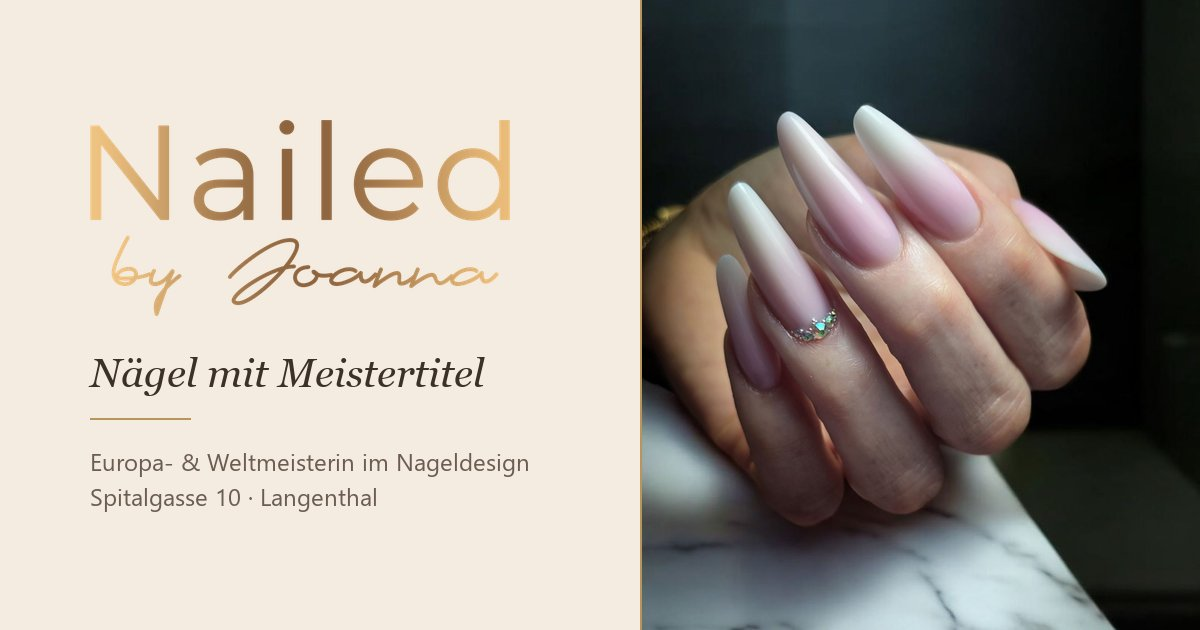
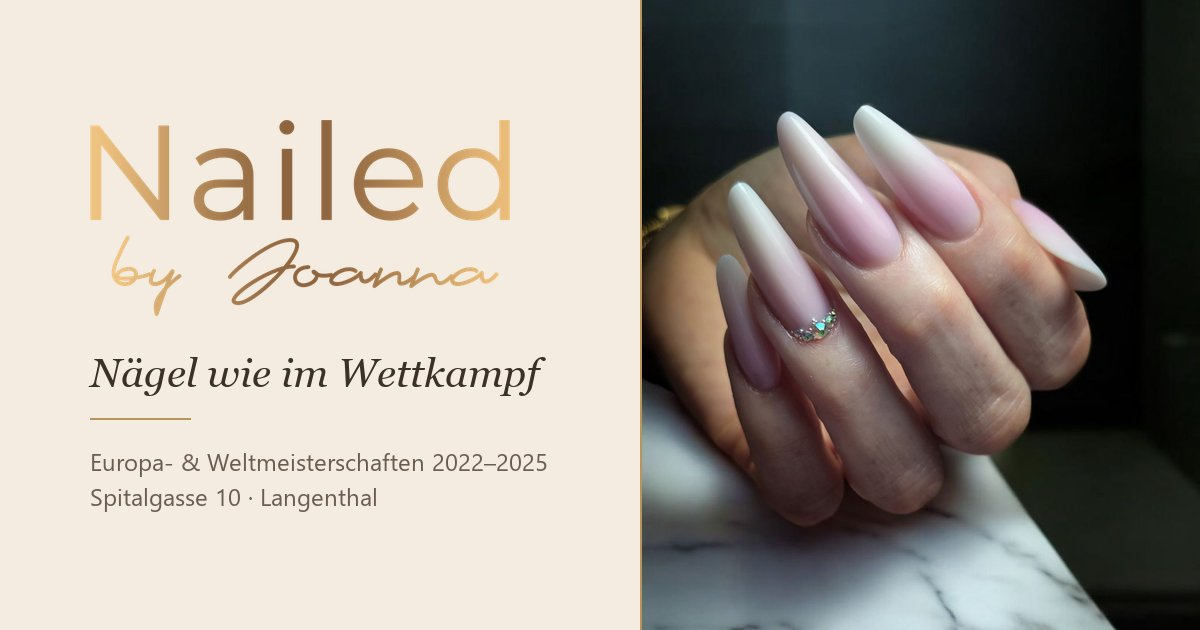
Titel neutral, Sprachwechsel in der Fusszeile

Changed region(s): [[0.185, 0.573, 0.4625, 0.6333], [0.2775, 0.7238, 0.4625, 0.754]]

diff --git a/en/index.html b/en/index.html
@@ -6,10 +6,10 @@
 <meta name="viewport" content="width=device-width, initial-scale=1">
 <meta name="robots" content="noindex, nofollow">
 <title>Nailed by Joanna Förster · Nail Studio Langenthal</title>
-<meta name="description" content="Nail studio in Langenthal, Switzerland, by Joanna Förster, European and World Champion in nail design. Gel extensions, Russian manicure, gel polish, hand-painted nail art and pedicure. Book on Treatwell.">
+<meta name="description" content="Nail studio in Langenthal, Switzerland, by Joanna Förster, who has competed at European and World Championships in nail design. Gel extensions, Russian manicure, gel polish, hand-painted nail art and pedicure. Book on Treatwell.">
 <meta name="theme-color" content="#f4ece1">
 <meta property="og:title" content="Nailed by Joanna Förster · Nail Studio Langenthal">
-<meta property="og:description" content="Championship-level nails: European and World Champion in nail design, Spitalgasse 10, Langenthal.">
+<meta property="og:description" content="Competition-level nails: European and World Championships in nail design, Spitalgasse 10, Langenthal.">
 <meta property="og:type" content="website">
 <meta property="og:locale" content="en_GB">
 <meta property="og:url" content="https://mauricestuder.github.io/nailedbyjoanna/en/">
@@ -166,9 +166,6 @@ p { margin: 0 0 1em; }
 }
 .nav-links a:not(.knopf):hover::after, .nav-links a[aria-current="true"]::after { transform: scaleX(1); transform-origin: left; }
 .nav .knopf { --h: 44px; padding: 0 22px; font-size: 12px; }
-.nav-links a.sprache { font-size: 12px; letter-spacing: .14em; padding: 10px 4px; color: var(--gold-text); }
-.menue-sprache { margin: 20px 0 0; font-size: 15px; }
-.menue-sprache a { color: var(--gold-text); }
 
 .burger {
   display: none; width: 48px; height: 48px; margin-right: -10px; border: 0; background: none; cursor: pointer;
@@ -595,7 +592,6 @@ p { margin: 0 0 1em; }
         <li><a href="#preise">Prices</a></li>
         <li><a href="#ueber">About</a></li>
         <li><a href="#kontakt">Contact</a></li>
-        <li><a class="sprache" href="../" hreflang="de" lang="de" aria-label="Deutsche Version">DE</a></li>
         <li><a class="knopf knopf-voll" href="https://www.treatwell.ch/ort/nailed-by-joanna-foerster/" target="_blank" rel="noopener">Book now</a></li>
       </ul>
     </nav>
@@ -612,7 +608,6 @@ p { margin: 0 0 1em; }
     <li><a href="#kontakt">Contact</a></li>
   </ul>
   <a class="knopf knopf-voll" href="https://www.treatwell.ch/ort/nailed-by-joanna-foerster/" target="_blank" rel="noopener">Book now</a>
-  <p class="menue-sprache"><a href="../" hreflang="de" lang="de">Deutsche Version</a></p>
   <p class="menue-kontakt"><a href="tel:+41766209822">076 620 98 22</a><br>Spitalgasse 10, 4900 Langenthal</p>
 </div>
 
@@ -624,13 +619,13 @@ p { margin: 0 0 1em; }
     <div>
       <p class="abzeichen auftakt" style="--i:0">
         <svg viewBox="0 0 24 24" fill="none" stroke="currentColor" stroke-width="1.2" aria-hidden="true"><path d="M7 4h10v4a5 5 0 0 1-10 0V4Z"/><path d="M7 6H4.5a2.5 2.5 0 0 0 2.6 3M17 6h2.5a2.5 2.5 0 0 1-2.6 3M12 13v4M8.5 20h7M9.5 17h5"/></svg>
-        European &amp; World Champion in nail design
+        European &amp; World Championships 2022–2025
       </p>
       <h1>
-        <span class="zeile"><span style="--i:1">Nails by a</span></span>
-        <span class="zeile"><span style="--i:2"><em>champion</em></span></span>
+        <span class="zeile"><span style="--i:1">Nails at</span></span>
+        <span class="zeile"><span style="--i:2"><em>contest level</em></span></span>
       </h1>
-      <p class="einleitung auftakt" style="--i:4">Gel extensions, Russian manicure and hand-painted nail art by Joanna Förster – with the precision of a competition winner and the calm of a small studio on Spitalgasse in Langenthal.</p>
+      <p class="einleitung auftakt" style="--i:4">Gel extensions, Russian manicure and hand-painted nail art by Joanna Förster – with the precision of international competitions and the calm of a small studio on Spitalgasse in Langenthal.</p>
       <div class="kopf-knoepfe auftakt" style="--i:5">
         <a class="knopf knopf-voll" href="https://www.treatwell.ch/ort/nailed-by-joanna-foerster/" target="_blank" rel="noopener">
           Book now
@@ -656,7 +651,7 @@ p { margin: 0 0 1em; }
       <div class="siegel auftakt" style="--i:7" aria-hidden="true">
         <svg viewBox="0 0 112 112">
           <defs><path id="kreis" d="M56 56m-42 0a42 42 0 1 1 84 0a42 42 0 1 1-84 0"/></defs>
-          <g class="kreis-text"><text class="ring"><textPath href="#kreis">World Champion · European Champion ·</textPath></text></g>
+          <g class="kreis-text"><text class="ring"><textPath href="#kreis">European &amp; World Championships ·</textPath></text></g>
           <circle cx="56" cy="56" r="28" fill="none" stroke="#b8955a" stroke-width=".8"/>
           <text x="56" y="64" text-anchor="middle" fill="#7a5c2c" style="font:italic 400 24px 'Playfair Display',Georgia,serif">J</text>
         </svg>
@@ -679,8 +674,8 @@ p { margin: 0 0 1em; }
   <div class="wrap">
     <div class="titel-kopf">
       <div>
-        <p class="oben rv">Awards</p>
-        <h2 class="titel rv" id="titel-h" style="--i:1">Won on the <em>international</em> stage</h2>
+        <p class="oben rv">Competitions</p>
+        <h2 class="titel rv" id="titel-h" style="--i:1">On the <em>international</em> stage</h2>
         <svg class="zier" viewBox="0 0 180 14" aria-hidden="true"><line x1="0" y1="7" x2="80" y2="7"/><rect class="raute" x="86" y="3" width="8" height="8"/><line x1="100" y1="7" x2="180" y2="7"/></svg>
       </div>
       <p class="einleitung rv" style="--i:2">From 2022 to 2025 Joanna competed at European and World Championships – not for the trophies, but to challenge herself. You can feel that precision at every appointment.</p>
@@ -1079,7 +1074,7 @@ p { margin: 0 0 1em; }
       </ul>
     </div>
     <div class="fuss-unten">
-      <p>Spitalgasse 10, 4900 Langenthal · <a href="../rechtliches.html" hreflang="de">Legal notice &amp; privacy (German)</a></p>
+      <p>Spitalgasse 10, 4900 Langenthal · <a href="../rechtliches.html" hreflang="de">Legal notice &amp; privacy (German)</a> · <a href="../" hreflang="de" lang="de">Deutsch</a></p>
       <p>© <span id="jahr">2026</span> Nailed by Joanna Förster</p>
     </div>
   </div>

diff --git a/index.html b/index.html
@@ -5,10 +5,10 @@
 <meta name="viewport" content="width=device-width, initial-scale=1">
 <meta name="robots" content="noindex, nofollow">
 <title>Nailed by Joanna Förster · Nagelstudio Langenthal</title>
-<meta name="description" content="Nagelstudio in Langenthal von Joanna Förster, Europa- und Weltmeisterin im Nageldesign. Modellage, Russische Maniküre, Gellack, handgemalte Nailart und Pediküre. Termine über Treatwell.">
+<meta name="description" content="Nagelstudio in Langenthal von Joanna Förster, Teilnehmerin an Europa- und Weltmeisterschaften im Nageldesign. Modellage, Russische Maniküre, Gellack, handgemalte Nailart und Pediküre. Termine über Treatwell.">
 <meta name="theme-color" content="#f4ece1">
 <meta property="og:title" content="Nailed by Joanna Förster · Nagelstudio Langenthal">
-<meta property="og:description" content="Nägel mit Meistertitel: Europa- und Weltmeisterin im Nageldesign, Spitalgasse 10, Langenthal.">
+<meta property="og:description" content="Nägel wie im Wettkampf: Europa- und Weltmeisterschaften im Nageldesign, Spitalgasse 10, Langenthal.">
 <meta property="og:type" content="website">
 <meta property="og:locale" content="de_CH">
 <meta property="og:url" content="https://mauricestuder.github.io/nailedbyjoanna/">
@@ -165,9 +165,6 @@ p { margin: 0 0 1em; }
 }
 .nav-links a:not(.knopf):hover::after, .nav-links a[aria-current="true"]::after { transform: scaleX(1); transform-origin: left; }
 .nav .knopf { --h: 44px; padding: 0 22px; font-size: 12px; }
-.nav-links a.sprache { font-size: 12px; letter-spacing: .14em; padding: 10px 4px; color: var(--gold-text); }
-.menue-sprache { margin: 20px 0 0; font-size: 15px; }
-.menue-sprache a { color: var(--gold-text); }
 
 .burger {
   display: none; width: 48px; height: 48px; margin-right: -10px; border: 0; background: none; cursor: pointer;
@@ -594,7 +591,6 @@ p { margin: 0 0 1em; }
         <li><a href="#preise">Preise</a></li>
         <li><a href="#ueber">Über mich</a></li>
         <li><a href="#kontakt">Kontakt</a></li>
-        <li><a class="sprache" href="en/" hreflang="en" lang="en" aria-label="English version">EN</a></li>
         <li><a class="knopf knopf-voll" href="https://www.treatwell.ch/ort/nailed-by-joanna-foerster/" target="_blank" rel="noopener">Termin buchen</a></li>
       </ul>
     </nav>
@@ -611,7 +607,6 @@ p { margin: 0 0 1em; }
     <li><a href="#kontakt">Kontakt</a></li>
   </ul>
   <a class="knopf knopf-voll" href="https://www.treatwell.ch/ort/nailed-by-joanna-foerster/" target="_blank" rel="noopener">Termin buchen</a>
-  <p class="menue-sprache"><a href="en/" hreflang="en" lang="en">English version</a></p>
   <p class="menue-kontakt"><a href="tel:+41766209822">076 620 98 22</a><br>Spitalgasse 10, 4900 Langenthal</p>
 </div>
 
@@ -623,13 +618,13 @@ p { margin: 0 0 1em; }
     <div>
       <p class="abzeichen auftakt" style="--i:0">
         <svg viewBox="0 0 24 24" fill="none" stroke="currentColor" stroke-width="1.2" aria-hidden="true"><path d="M7 4h10v4a5 5 0 0 1-10 0V4Z"/><path d="M7 6H4.5a2.5 2.5 0 0 0 2.6 3M17 6h2.5a2.5 2.5 0 0 1-2.6 3M12 13v4M8.5 20h7M9.5 17h5"/></svg>
-        Europa- &amp; Weltmeisterin im Nageldesign
+        Europa- &amp; Weltmeisterschaften 2022–2025
       </p>
       <h1>
-        <span class="zeile"><span style="--i:1">Nägel mit</span></span>
-        <span class="zeile"><span style="--i:2"><em>Meistertitel</em></span></span>
+        <span class="zeile"><span style="--i:1">Nägel wie</span></span>
+        <span class="zeile"><span style="--i:2"><em>im Wettkampf</em></span></span>
       </h1>
-      <p class="einleitung auftakt" style="--i:4">Modellage, Russische Maniküre und handgemalte Nailart von Joanna Förster – mit der Präzision einer Wettkampfsiegerin und der Ruhe eines kleinen Studios an der Spitalgasse in Langenthal.</p>
+      <p class="einleitung auftakt" style="--i:4">Modellage, Russische Maniküre und handgemalte Nailart von Joanna Förster – mit der Präzision aus internationalen Wettkämpfen und der Ruhe eines kleinen Studios an der Spitalgasse in Langenthal.</p>
       <div class="kopf-knoepfe auftakt" style="--i:5">
         <a class="knopf knopf-voll" href="https://www.treatwell.ch/ort/nailed-by-joanna-foerster/" target="_blank" rel="noopener">
           Termin buchen
@@ -655,7 +650,7 @@ p { margin: 0 0 1em; }
       <div class="siegel auftakt" style="--i:7" aria-hidden="true">
         <svg viewBox="0 0 112 112">
           <defs><path id="kreis" d="M56 56m-42 0a42 42 0 1 1 84 0a42 42 0 1 1-84 0"/></defs>
-          <g class="kreis-text"><text class="ring"><textPath href="#kreis">Weltmeisterin · Europameisterin ·</textPath></text></g>
+          <g class="kreis-text"><text class="ring"><textPath href="#kreis">Europa- &amp; Weltmeisterschaften ·</textPath></text></g>
           <circle cx="56" cy="56" r="28" fill="none" stroke="#b8955a" stroke-width=".8"/>
           <text x="56" y="64" text-anchor="middle" fill="#7a5c2c" style="font:italic 400 24px 'Playfair Display',Georgia,serif">J</text>
         </svg>
@@ -678,8 +673,8 @@ p { margin: 0 0 1em; }
   <div class="wrap">
     <div class="titel-kopf">
       <div>
-        <p class="oben rv">Ausgezeichnet</p>
-        <h2 class="titel rv" id="titel-h" style="--i:1">Gewonnen auf <em>internationaler</em> Bühne</h2>
+        <p class="oben rv">Wettkämpfe</p>
+        <h2 class="titel rv" id="titel-h" style="--i:1">Auf <em>internationaler</em> Bühne</h2>
         <svg class="zier" viewBox="0 0 180 14" aria-hidden="true"><line x1="0" y1="7" x2="80" y2="7"/><rect class="raute" x="86" y="3" width="8" height="8"/><line x1="100" y1="7" x2="180" y2="7"/></svg>
       </div>
       <p class="einleitung rv" style="--i:2">Von 2022 bis 2025 hat Joanna an Europa- und Weltmeisterschaften teilgenommen – nicht für die Pokale, sondern um sich selbst herauszufordern. Diese Genauigkeit spüren Sie bei jedem Termin.</p>
@@ -1078,7 +1073,7 @@ p { margin: 0 0 1em; }
       </ul>
     </div>
     <div class="fuss-unten">
-      <p>Spitalgasse 10, 4900 Langenthal · <a href="rechtliches.html">Impressum &amp; Datenschutz</a></p>
+      <p>Spitalgasse 10, 4900 Langenthal · <a href="rechtliches.html">Impressum &amp; Datenschutz</a> · <a href="en/" hreflang="en" lang="en">English</a></p>
       <p>© <span id="jahr">2026</span> Nailed by Joanna Förster</p>
     </div>
   </div>
